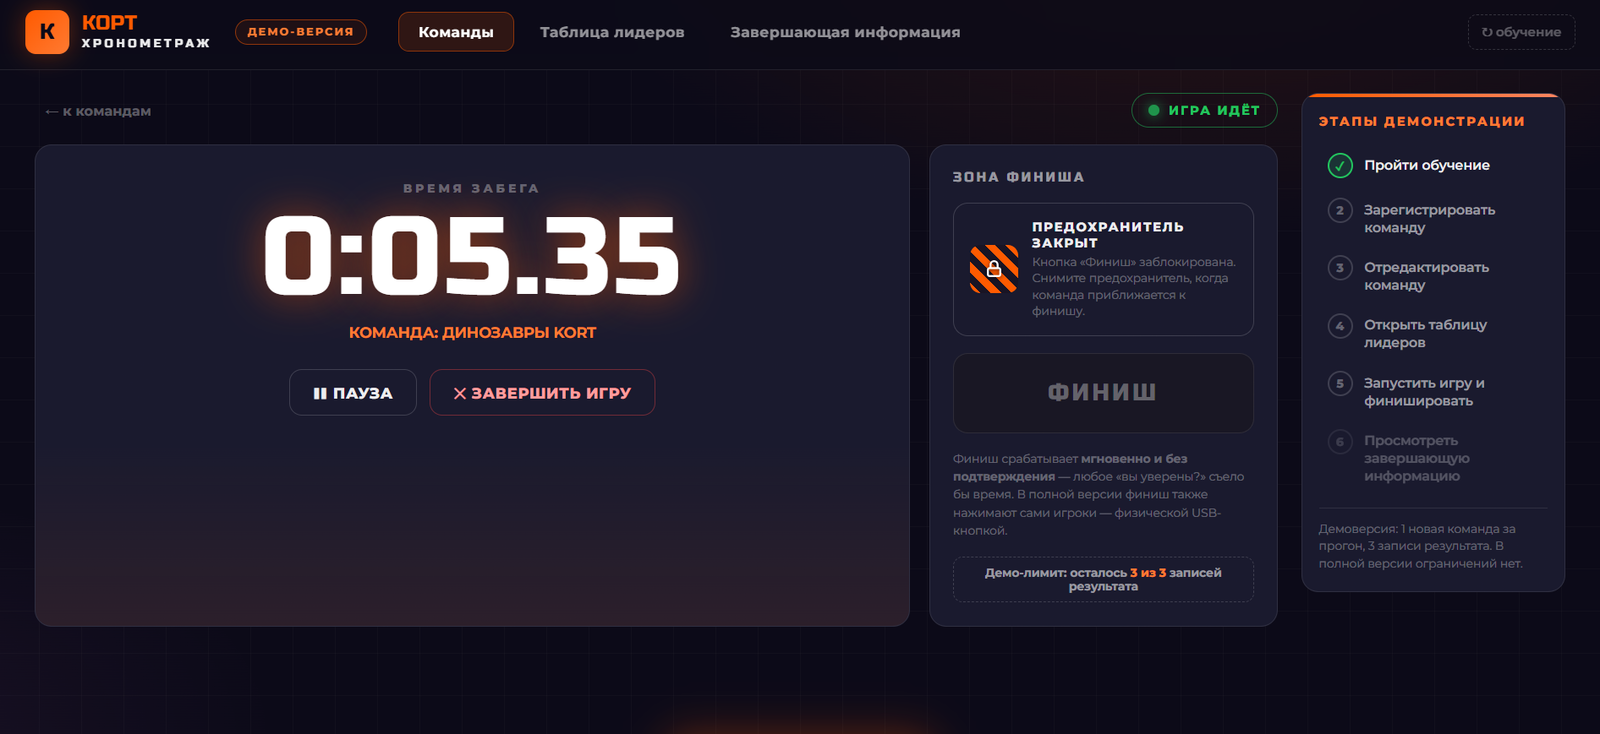
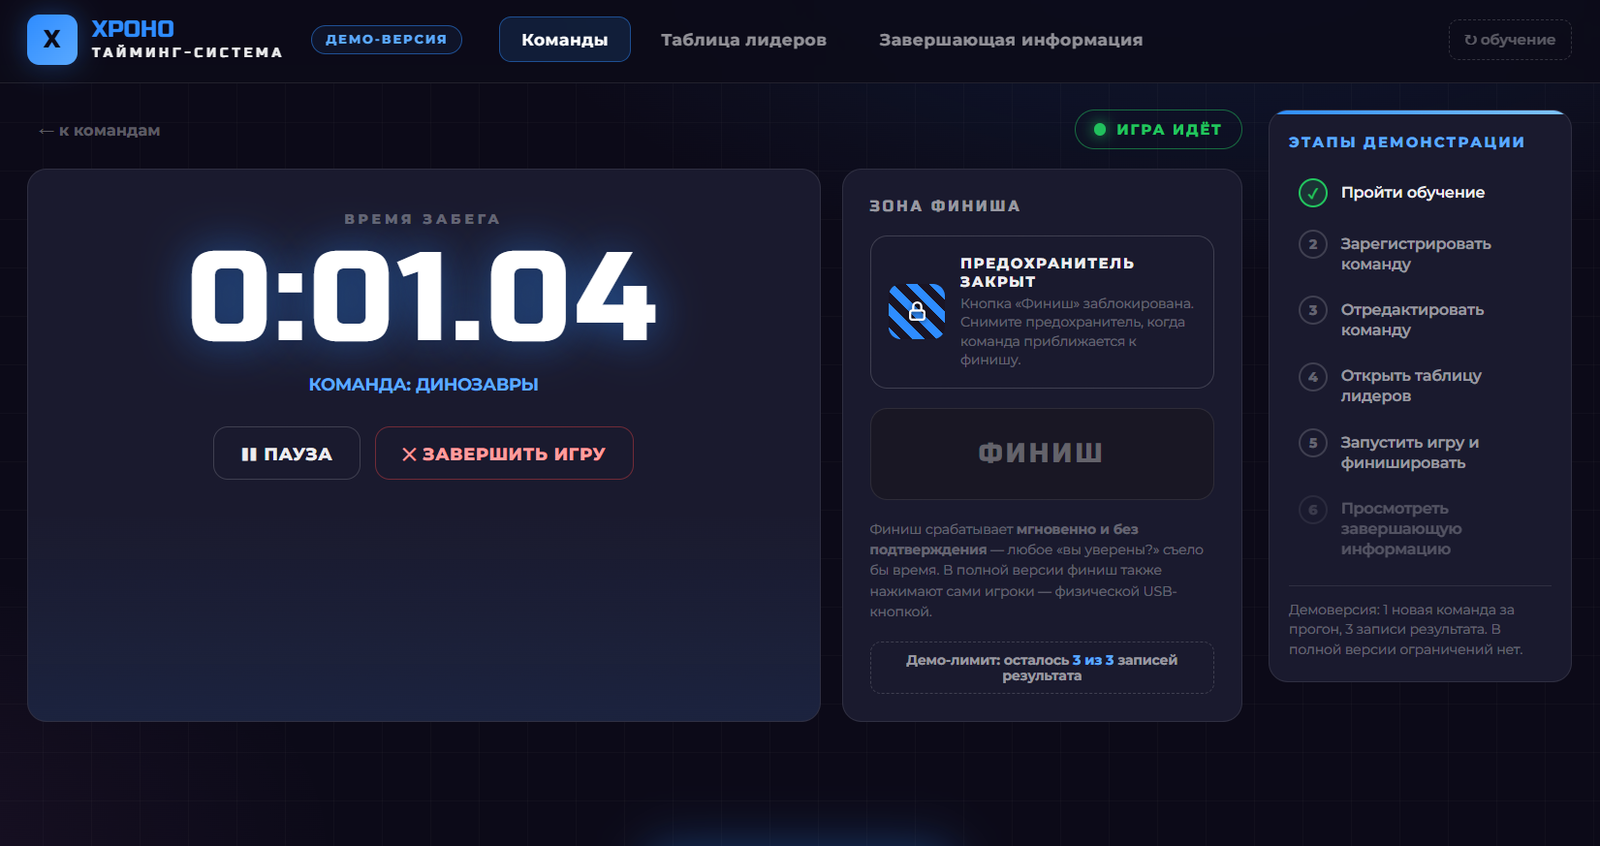
Кейс хронометража: нейтральный скрин ХРОНО вместо брендированного

diff --git a/index.html b/index.html
@@ -467,7 +467,7 @@
           </ul>
           <p class="passport"><span><b>Формат</b> самодостаточный index.html</span> <span><b>Цель</b> продажа полной версии</span> <span class="ok">✓ демо у заказчика</span></p>
         </div>
-        <div class="case-media"><img src="assets/case-kort.png" alt="Скриншот программы: таймер забега 0:05.35, зона финиша с предохранителем" loading="lazy" width="1600" height="737"></div>
+        <div class="case-media"><img src="assets/case-kort.png" alt="Экран таймера: время забега, зона финиша с предохранителем и этапы демонстрации" loading="lazy" width="1600" height="737"></div>
       </article>
 
       <article class="case rv">
